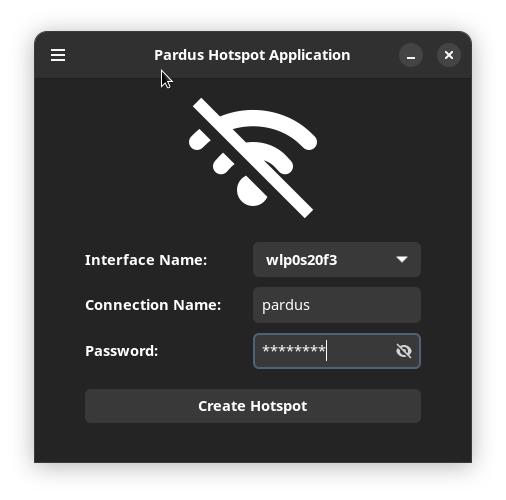
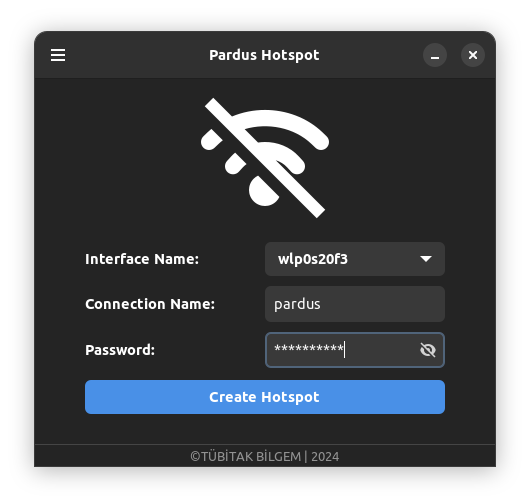
Add screenshots

diff --git a/README_TR.md b/README_TR.md
@@ -82,11 +82,11 @@ Pardus Kablosuz Erişim Noktası'nı kurmadan önce, sisteminizin aşağıdaki g
 
 
 <p align="center">
-  <img src="screenshots/disable.png" alt="Hotspot Disabled" width="400"/>
-  <img src="screenshots/enable.png" alt="Hotspot Enabled" width="400"/>
+  <img src="screenshots/disable-tr.png" alt="Hotspot Disabled" width="400"/>
+  <img src="screenshots/enable-tr.png" alt="Hotspot Enabled" width="400"/>
 </p>
 
 - Ayarların yapılandırılması:
 <p align="center">
-<img src="screenshots/settings.png" alt="Hotspot Settings" width="400"/>
+<img src="screenshots/settings-tr.png" alt="Hotspot Settings" width="400"/>
 </p>
